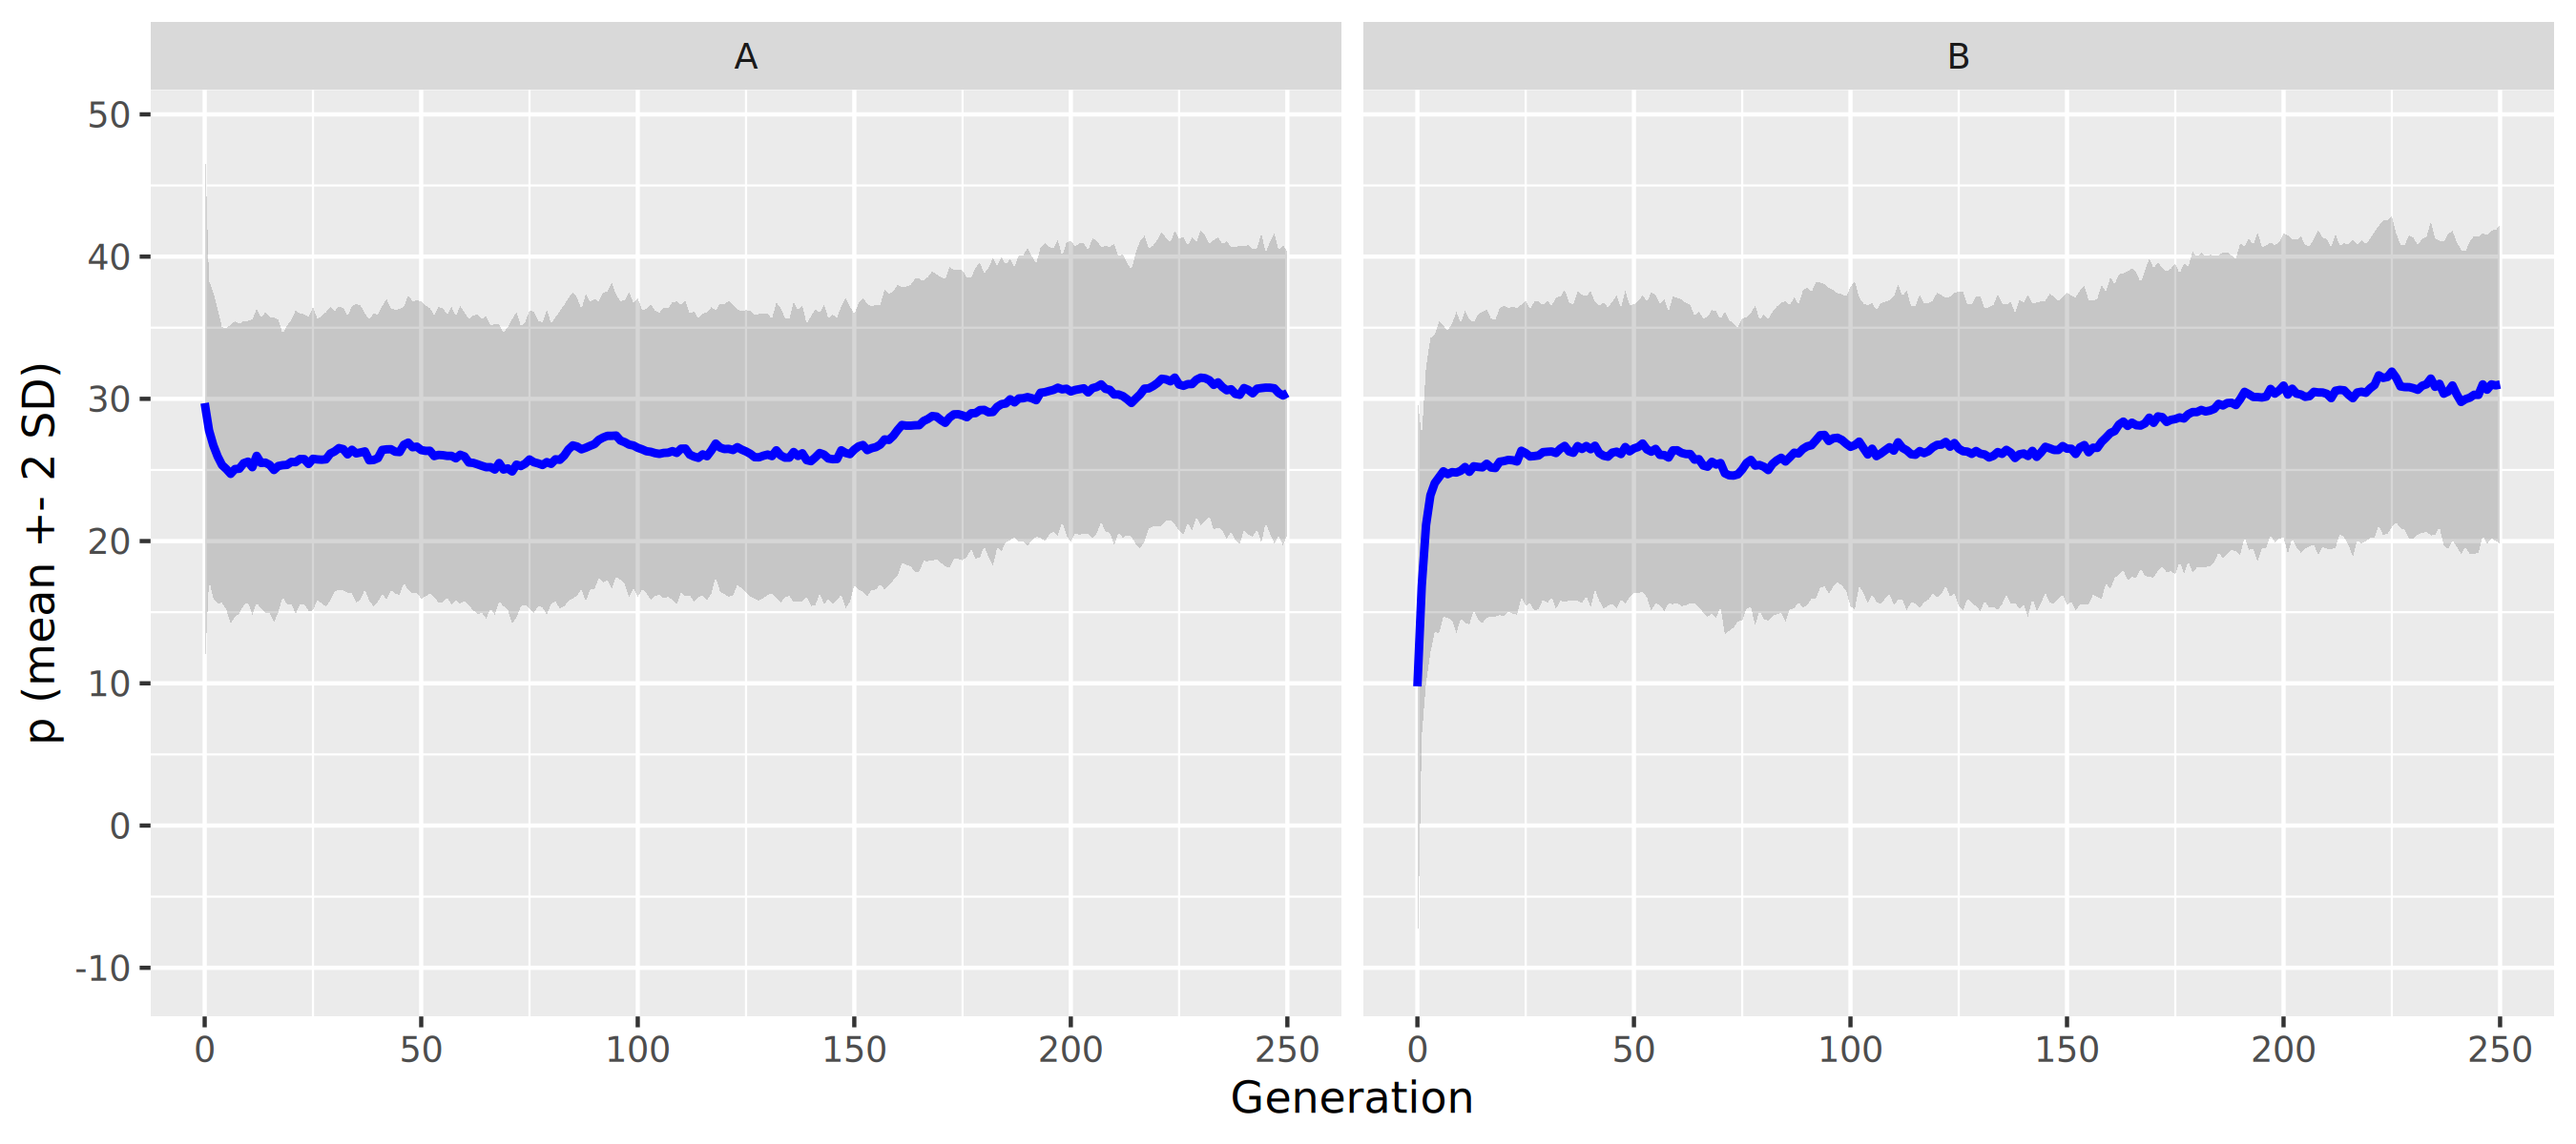
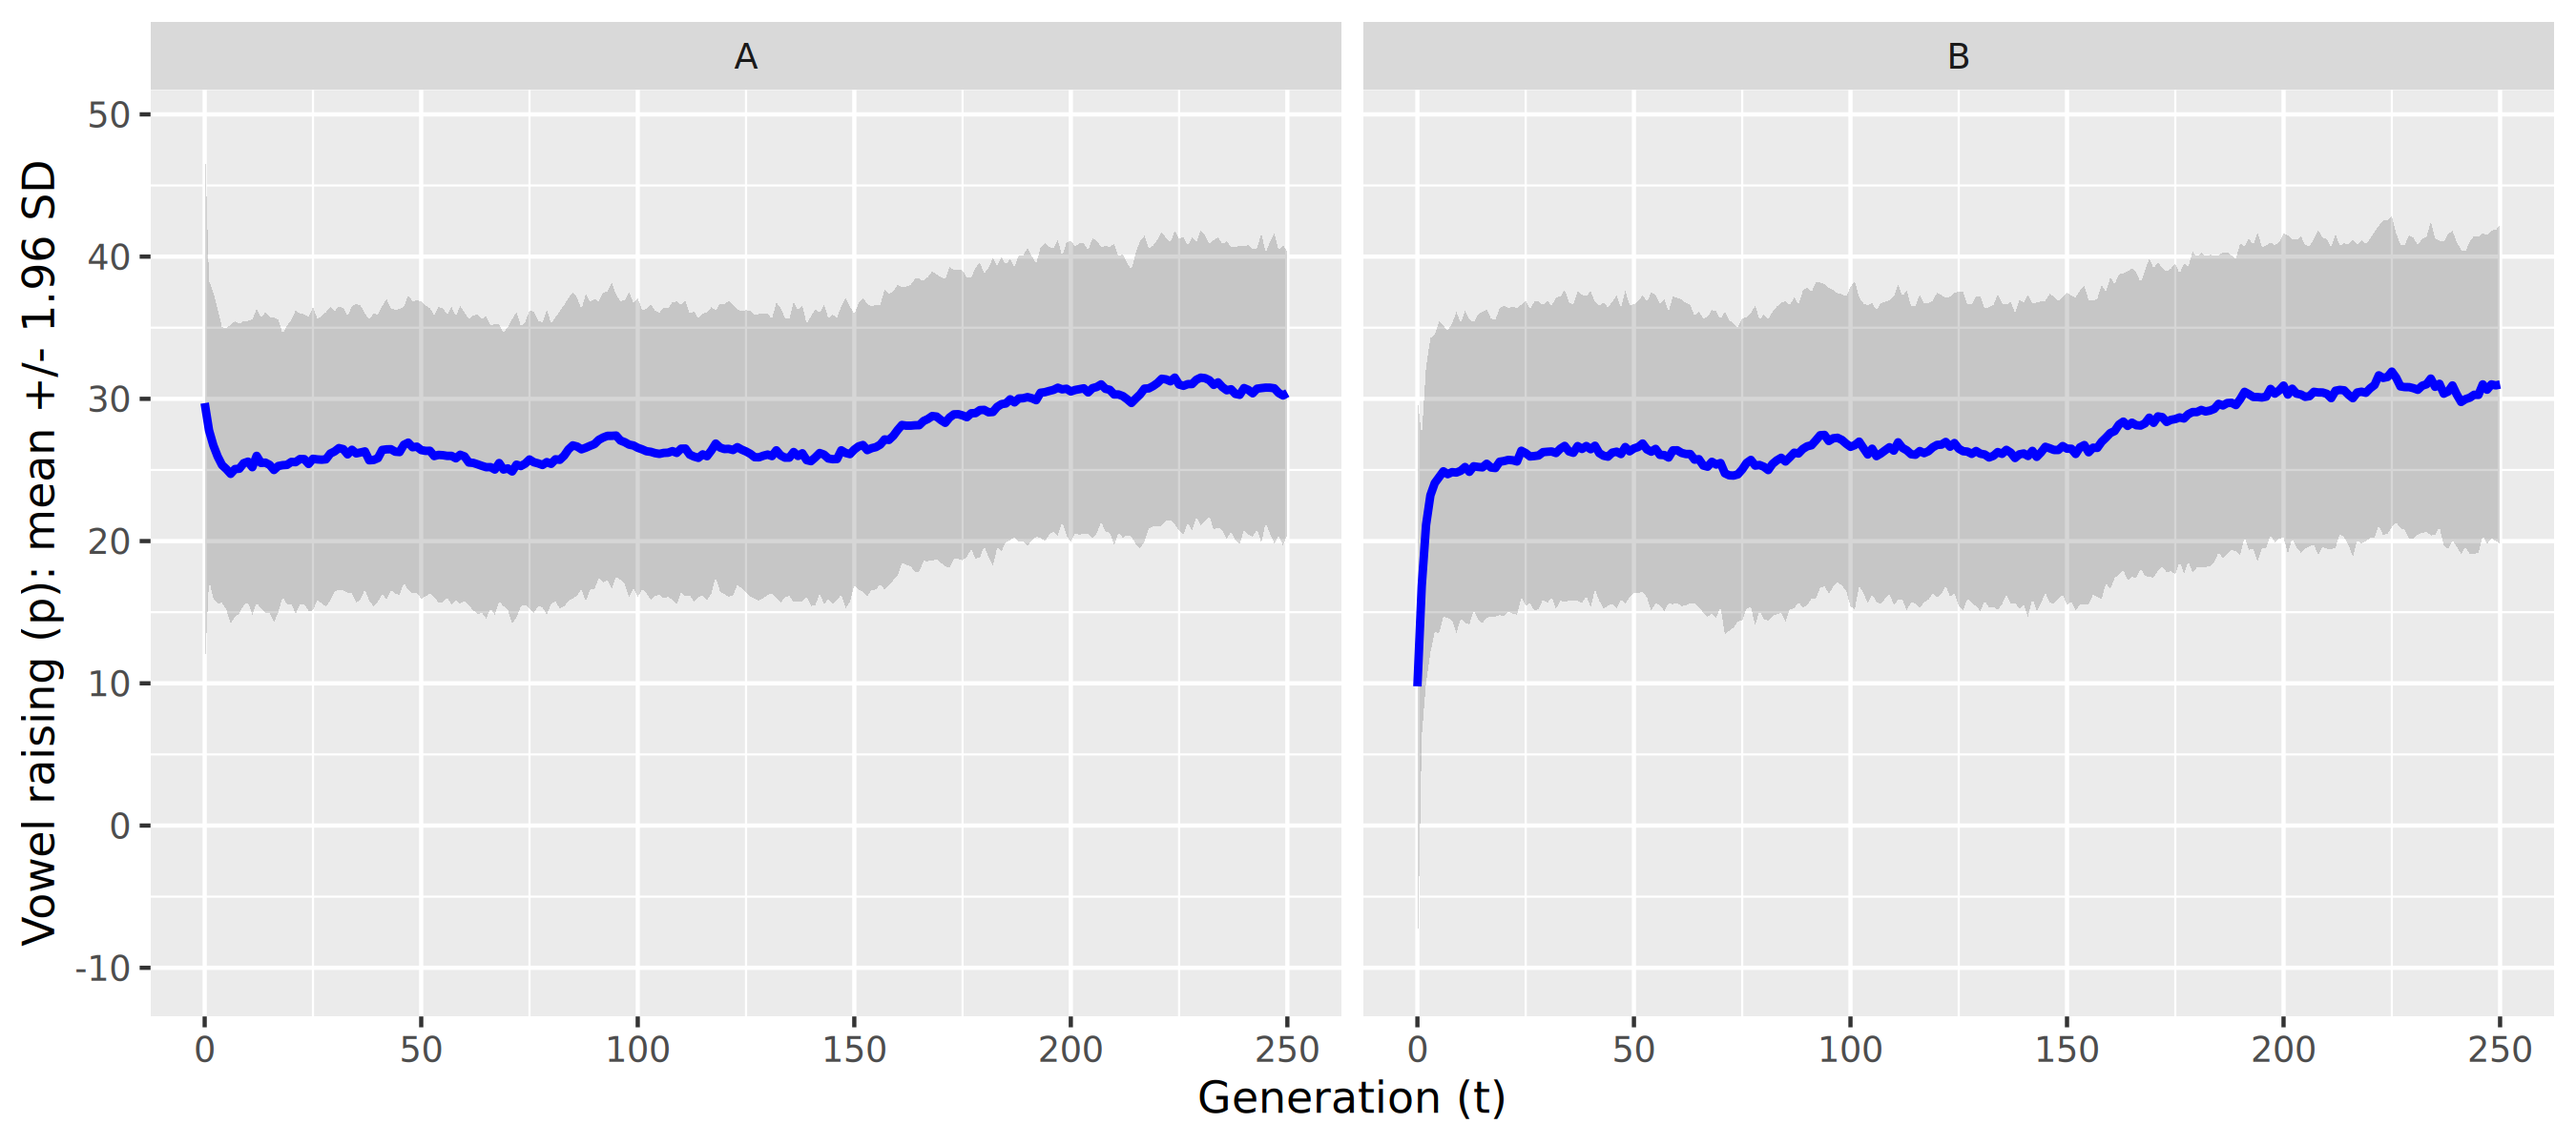
final update before submission

Changed region(s): [[0.0, 0.3083, 0.0311, 0.8325], [0.4667, 0.925, 0.5911, 0.9867], [0.0, 0.1542, 0.0311, 0.2467]]

diff --git a/README.md b/README.md
@@ -36,7 +36,9 @@ The simulations use two social groups with different initial distributions of \(
 
 Both groups have a cross-group exposure probability of 0.2. Social weights are configured to favor Group A's speech, with `aWeight = 0.7` and `bWeight = 0.3`. These weights are normalized for each learner before being applied to the phonetic observations.
 
-In the two configurations without a categoricity prior, `muCentral = 530` Hz is used solely to define the visualization interval. In the categoricity-prior configuration, `muI = 300` Hz defines the high-vowel F1 reference, yielding a bounded MAP search interval of 0–430 Hz.
+In the two configurations without a categoricity prior, `muCentral = 530` Hz is used solely to define the upper endpoint of the kernel density evaluation interval. It does not constrain the phonetic shift parameter.
+
+In the categoricity-prior configuration, `muI = 300` Hz defines the high-vowel F1 reference, yielding a bounded MAP search interval of 0–430 Hz.
 
 ## Running the Simulations
 
@@ -52,15 +54,13 @@ Each simulation generates plots of the phonetic shift parameter distribution, me
 
 ## Plotting Functions
 
-The scripts use `ksPlots_lsa2015.R`, available from the [original OSF repository](https://osf.io/b7sgq/overview). Download the file and place it in the same directory as the simulation scripts.
+The simulations use `plots.R` to generate the following visualizations:
 
-The following visualizations are generated:
-
-- `densityPlot()`: Probability density of the phonetic shift parameter across generations.
+- `densityPlot()`: Kernel density estimates of the phonetic shift parameter across generations (PDF by default, with CDF available as an option).
 - `meanSdPlot()`: Mean phonetic shift parameter ± 1.96 standard deviations.
 - `spreadPlot()`: Median and 5th–95th percentile range.
 
-For the latter two plots, Group A and Group B are displayed in separate panels using `facet_wrap(~group)`.
+All three plots display Group A and Group B in separate panels using `facet_wrap(~group)`.
 
 ## References
 
